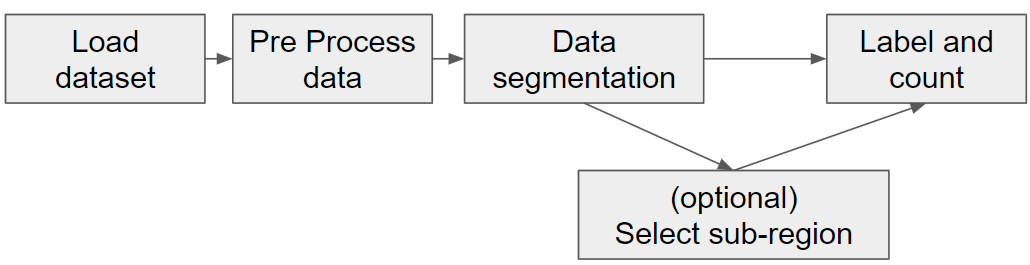
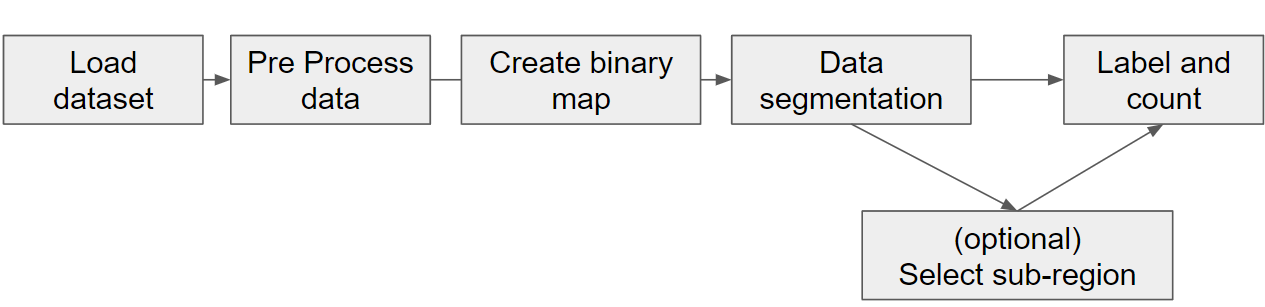
maint: adding binary mask widget documentation

diff --git a/jaworski_cellseg/binary_maps_widget.py b/jaworski_cellseg/binary_maps_widget.py
@@ -14,7 +14,7 @@ def create_binary_map_widget(
     """
 
     @magicgui(
-        call_button="Create Binary Map",
+        call_button="Create Binary Mask",
         auto_call=False,
         channel_name={
             "widget_type": "ComboBox",

diff --git a/README.md b/README.md
@@ -71,7 +71,21 @@ You may pre-process the image with a Gaussian filter and contrast adjustments. D
 
 This process creates 2 additional layers (Keep track of these):
 - Pre-processed Data: An enhanced version of the dataset that sharpens cell borders and brightens the interior of blobs to help identify multiple cells within a single blob.
-- Cloud Binary: A binary image representing the region of interest with the highest probability of containing cells.
+
+### Create binary mask
+
+To improve the precision of our cell detection efforts within a specific channel, it is essential to create a binary mask. A binary mask is a black-and-white image that defines regions of interest where there is a higher likelihood of locating cells. By combining the segmentation results with this binary mask, we can effectively filter out noise generated during the segmentation process. This approach ensures that the analysis focuses exclusively on potential cells within the specified regions, improving both accuracy and efficiency in cell detection.
+
+ <img src="images/README/binary_mask_widget.png" alt="bimary mask widget" 
+   width="320" height="150">
+
+
+Use the dropdown menu to select the channel from which you want to create the binary mask. The threshold setting specifies that only pixels with an intensity greater than the defined percentage of the channel's maximum intensity will be included in the mask. This approach helps isolate regions with a higher likelihood of containing cells, enabling a more targeted and precise analysis by focusing on areas of interest while minimizing irrelevant data. Click on the "Create binary Mask" to add the result to the napari viewer
+
+
+ <img src="images/README/example_binary_mask.png" alt="Example binary mask" 
+   width="320" height="300">
+
 
 
 ### Data Segmentation
